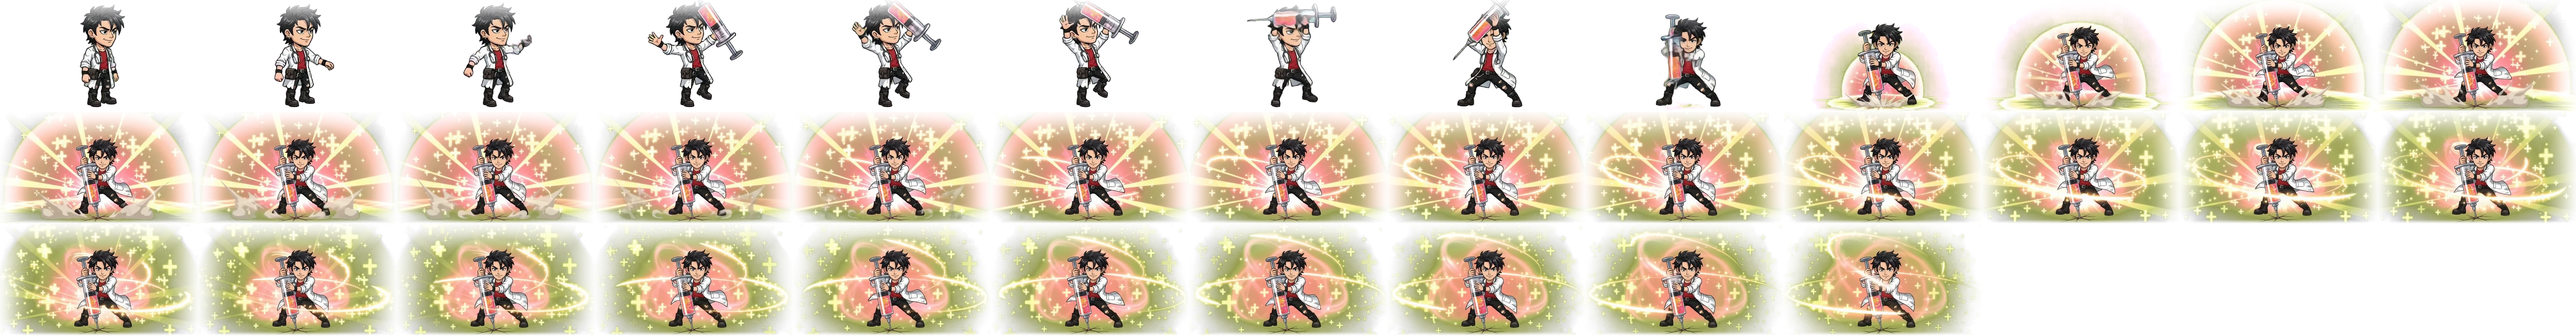
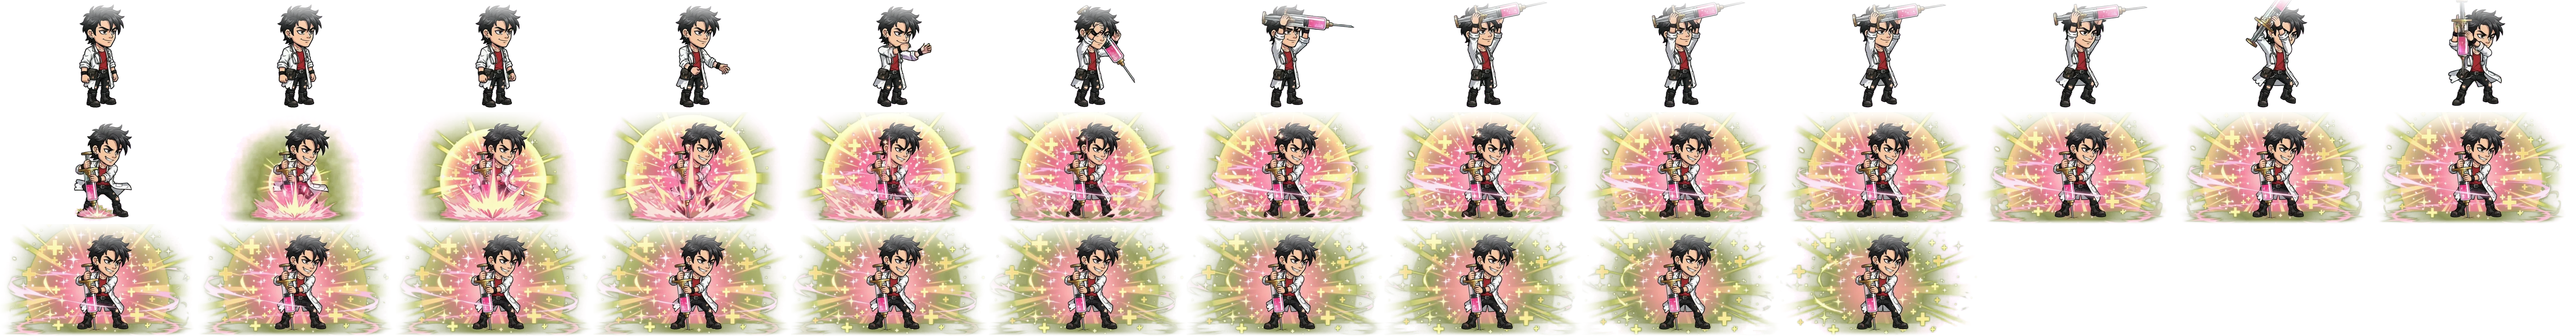
Nuevas ultimates sin encogerse y skill de la maga sin inclinarse
Claude-Session: https://claude.ai/code/session_01QroJPNWtC3fVbqsGw4yzNr

diff --git a/index.html b/index.html
@@ -13,7 +13,7 @@ canvas{display:block;background:#000}
 <div id="load">Cargando 0%</div>
 <div id="rot">Gira el teléfono en horizontal para jugar mejor</div>
 <script>
-const MAN={"sword": {"anchor": [323, 333], "walk": {"n": 30, "x": 250, "y": 20, "w": 226, "h": 317, "fps": 10, "cols": 30}, "idle": {"n": 18, "x": 252, "y": 21, "w": 230, "h": 317, "fps": 8, "cols": 18}, "attack": {"n": 17, "x": 70, "y": 22, "w": 495, "h": 316, "fps": 14, "cols": 16}, "ult": {"n": 20, "x": 37, "y": 26, "w": 574, "h": 312, "fps": 12, "cols": 14}, "scale": 0.5844155844155844, "tornado": {"n": 87, "x": 105, "y": 0, "w": 432, "h": 348, "fps": 15, "cols": 18}}, "mage": {"anchor": [321, 339], "scale": 0.5863192182410424, "walk": {"n": 30, "x": 207, "y": 26, "w": 260, "h": 317, "fps": 10, "cols": 30}, "idle": {"n": 30, "x": 179, "y": 26, "w": 293, "h": 317, "fps": 10, "cols": 27}, "attack": {"n": 29, "x": 213, "y": 1, "w": 412, "h": 348, "fps": 15, "cols": 19}, "skill": {"n": 27, "x": 22, "y": 21, "w": 596, "h": 339, "fps": 12, "cols": 13}, "ult": {"n": 36, "x": 11, "y": 11, "w": 618, "h": 349, "fps": 12, "cols": 13}}, "tank": {"anchor": [321, 339], "scale": 0.6060606060606061, "idle": {"n": 36, "x": 253, "y": 39, "w": 190, "h": 304, "fps": 12, "cols": 36}, "walk": {"n": 36, "x": 243, "y": 37, "w": 244, "h": 308, "fps": 12, "cols": 33}, "attack": {"n": 34, "x": 75, "y": 15, "w": 530, "h": 345, "fps": 20, "cols": 15}, "skill": {"n": 36, "x": 45, "y": 17, "w": 544, "h": 342, "fps": 12, "cols": 15}, "ult": {"n": 36, "x": 11, "y": 11, "w": 618, "h": 348, "fps": 12, "cols": 13}}, "doc": {"anchor": [322, 345], "scale": 0.5787781350482315, "idle": {"n": 36, "x": 249, "y": 23, "w": 196, "h": 326, "fps": 12, "cols": 36}, "walk": {"n": 36, "x": 243, "y": 23, "w": 174, "h": 326, "fps": 12, "cols": 36}, "attack": {"n": 32, "x": 53, "y": 9, "w": 578, "h": 350, "fps": 22, "cols": 14}, "skill": {"n": 36, "x": 21, "y": 16, "w": 583, "h": 343, "fps": 12, "cols": 14}, "ult": {"n": 36, "x": 21, "y": 21, "w": 598, "h": 338, "fps": 12, "cols": 13}}, "ase": {"anchor": [323, 345], "scale": 0.594059405940594, "idle": {"n": 36, "x": 197, "y": 37, "w": 260, "h": 312, "fps": 12, "cols": 31}, "walk": {"n": 36, "x": 207, "y": 37, "w": 254, "h": 314, "fps": 12, "cols": 32}, "attack": {"n": 26, "x": 51, "y": 9, "w": 580, "h": 340, "fps": 18, "cols": 14}, "skill": {"n": 36, "x": 17, "y": 17, "w": 606, "h": 342, "fps": 16, "cols": 13}, "ult": {"n": 36, "x": 15, "y": 15, "w": 610, "h": 344, "fps": 14, "cols": 13}}, "ring": {"anchor": [326, 341], "scale": 0.6060606060606061, "idle": {"n": 36, "x": 191, "y": 39, "w": 334, "h": 306, "fps": 12, "cols": 24}, "walk": {"n": 36, "x": 203, "y": 37, "w": 282, "h": 310, "fps": 12, "cols": 29}, "attack": {"n": 33, "x": 57, "y": 13, "w": 570, "h": 346, "fps": 18, "cols": 14}, "skill": {"n": 36, "x": 17, "y": 17, "w": 606, "h": 342, "fps": 14, "cols": 13}, "ult": {"n": 36, "x": 15, "y": 15, "w": 610, "h": 344, "fps": 14, "cols": 13}}};
+const MAN={"sword": {"anchor": [323, 333], "walk": {"n": 30, "x": 250, "y": 20, "w": 226, "h": 317, "fps": 10, "cols": 30}, "idle": {"n": 18, "x": 252, "y": 21, "w": 230, "h": 317, "fps": 8, "cols": 18}, "attack": {"n": 17, "x": 70, "y": 22, "w": 495, "h": 316, "fps": 14, "cols": 16}, "ult": {"n": 20, "x": 37, "y": 26, "w": 574, "h": 312, "fps": 12, "cols": 14}, "scale": 0.5844155844155844, "tornado": {"n": 87, "x": 105, "y": 0, "w": 432, "h": 348, "fps": 15, "cols": 18}}, "mage": {"anchor": [321, 339], "scale": 0.5863192182410424, "walk": {"n": 30, "x": 207, "y": 26, "w": 260, "h": 317, "fps": 10, "cols": 30}, "idle": {"n": 30, "x": 179, "y": 26, "w": 293, "h": 317, "fps": 10, "cols": 27}, "attack": {"n": 29, "x": 213, "y": 1, "w": 412, "h": 348, "fps": 15, "cols": 19}, "skill": {"n": 27, "x": 28, "y": 21, "w": 591, "h": 338, "fps": 12, "cols": 13}, "ult": {"n": 36, "x": 11, "y": 11, "w": 618, "h": 349, "fps": 12, "cols": 13}}, "tank": {"anchor": [321, 339], "scale": 0.6060606060606061, "idle": {"n": 36, "x": 253, "y": 39, "w": 190, "h": 304, "fps": 12, "cols": 36}, "walk": {"n": 36, "x": 243, "y": 37, "w": 244, "h": 308, "fps": 12, "cols": 33}, "attack": {"n": 34, "x": 75, "y": 15, "w": 530, "h": 345, "fps": 20, "cols": 15}, "skill": {"n": 36, "x": 45, "y": 17, "w": 544, "h": 342, "fps": 12, "cols": 15}, "ult": {"n": 36, "x": 15, "y": 15, "w": 610, "h": 344, "fps": 12, "cols": 13}}, "doc": {"anchor": [322, 345], "scale": 0.5787781350482315, "idle": {"n": 36, "x": 249, "y": 23, "w": 196, "h": 326, "fps": 12, "cols": 36}, "walk": {"n": 36, "x": 243, "y": 23, "w": 174, "h": 326, "fps": 12, "cols": 36}, "attack": {"n": 32, "x": 53, "y": 9, "w": 578, "h": 350, "fps": 22, "cols": 14}, "skill": {"n": 36, "x": 21, "y": 16, "w": 583, "h": 343, "fps": 12, "cols": 14}, "ult": {"n": 36, "x": 21, "y": 21, "w": 597, "h": 338, "fps": 12, "cols": 13}}, "ase": {"anchor": [323, 345], "scale": 0.594059405940594, "idle": {"n": 36, "x": 197, "y": 37, "w": 260, "h": 312, "fps": 12, "cols": 31}, "walk": {"n": 36, "x": 207, "y": 37, "w": 254, "h": 314, "fps": 12, "cols": 32}, "attack": {"n": 26, "x": 51, "y": 9, "w": 580, "h": 340, "fps": 18, "cols": 14}, "skill": {"n": 36, "x": 17, "y": 17, "w": 606, "h": 342, "fps": 16, "cols": 13}, "ult": {"n": 36, "x": 108, "y": 15, "w": 517, "h": 344, "fps": 14, "cols": 15}}, "ring": {"anchor": [326, 341], "scale": 0.6060606060606061, "idle": {"n": 36, "x": 191, "y": 39, "w": 334, "h": 306, "fps": 12, "cols": 24}, "walk": {"n": 36, "x": 203, "y": 37, "w": 282, "h": 310, "fps": 12, "cols": 29}, "attack": {"n": 33, "x": 57, "y": 13, "w": 570, "h": 346, "fps": 18, "cols": 14}, "skill": {"n": 36, "x": 17, "y": 17, "w": 606, "h": 342, "fps": 14, "cols": 13}, "ult": {"n": 36, "x": 15, "y": 15, "w": 610, "h": 344, "fps": 14, "cols": 13}}};
 const W=960,H=540,HY=392,HX=230,SY=400,CX=610;
 const HEROES={sword:{name:'Espadachín',pre:'',moves:'Tajo · Tornado · Corte'},mage:{name:'Maga',pre:'m_',moves:'Rayo · Flash · Ultimate'},tank:{name:'Abuela',pre:'t_',moves:'Peluchazo · Abrazo · Oso'},doc:{name:'Doctor',pre:'d_',moves:'Látigo · Curar · Jeringa'},ase:{name:'Asesino',pre:'a_',moves:'Bate · Embiste · Jonrón'},ring:{name:'Hechicera',pre:'r_',moves:'Dardo · Runas · Anillo'}};
 const CS={sword:{},mage:{},tank:{},doc:{},ase:{},ring:{}};
@@ -127,13 +127,13 @@ function actUlt(){
   if(!idleOK()||hero.en<100)return;
   hero.en=0;
   if(sel==='ring'){
-    startCast('ult',24,()=>{shake=16;alive().forEach(s=>hurtSlime(s,60,true));},true);
+    startCast('ult',20,()=>{shake=16;alive().forEach(s=>hurtSlime(s,60,true));},true);
   }else if(sel==='ase'){
     startCast('ult',27,()=>{shake=18;alive().forEach(s=>hurtSlime(s,60,true));},true);
   }else if(sel==='doc'){
-    startCast('ult',11,()=>{shake=14;const h=Math.min(40,hero.max-hero.hp);hero.hp+=h;addFloat(hero.x,HY-200,'+'+h,'#7dff9a',34);alive().forEach(s=>{hurtSlime(s,30,true);s.stun=2.5;});},true);
+    startCast('ult',14,()=>{shake=14;const h=Math.min(40,hero.max-hero.hp);hero.hp+=h;addFloat(hero.x,HY-200,'+'+h,'#7dff9a',34);alive().forEach(s=>{hurtSlime(s,30,true);s.stun=2.5;});},true);
   }else if(sel==='tank'){
-    startCast('ult',15,()=>{shake=16;alive().forEach(s=>{hurtSlime(s,35,true);s.stun=3.5;});},true);
+    startCast('ult',16,()=>{shake=16;alive().forEach(s=>{hurtSlime(s,35,true);s.stun=3.5;});},true);
   }else if(sel==='mage'){
     startCast('ult',24,()=>{
       shake=14;
